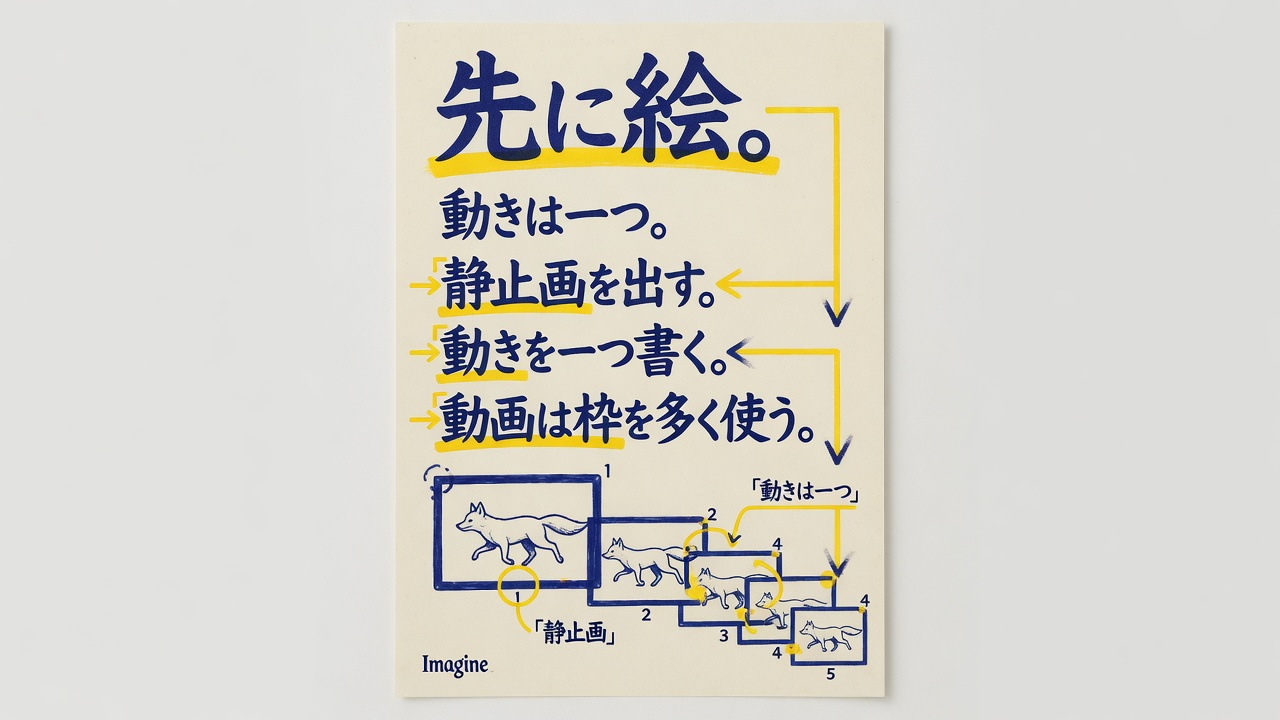
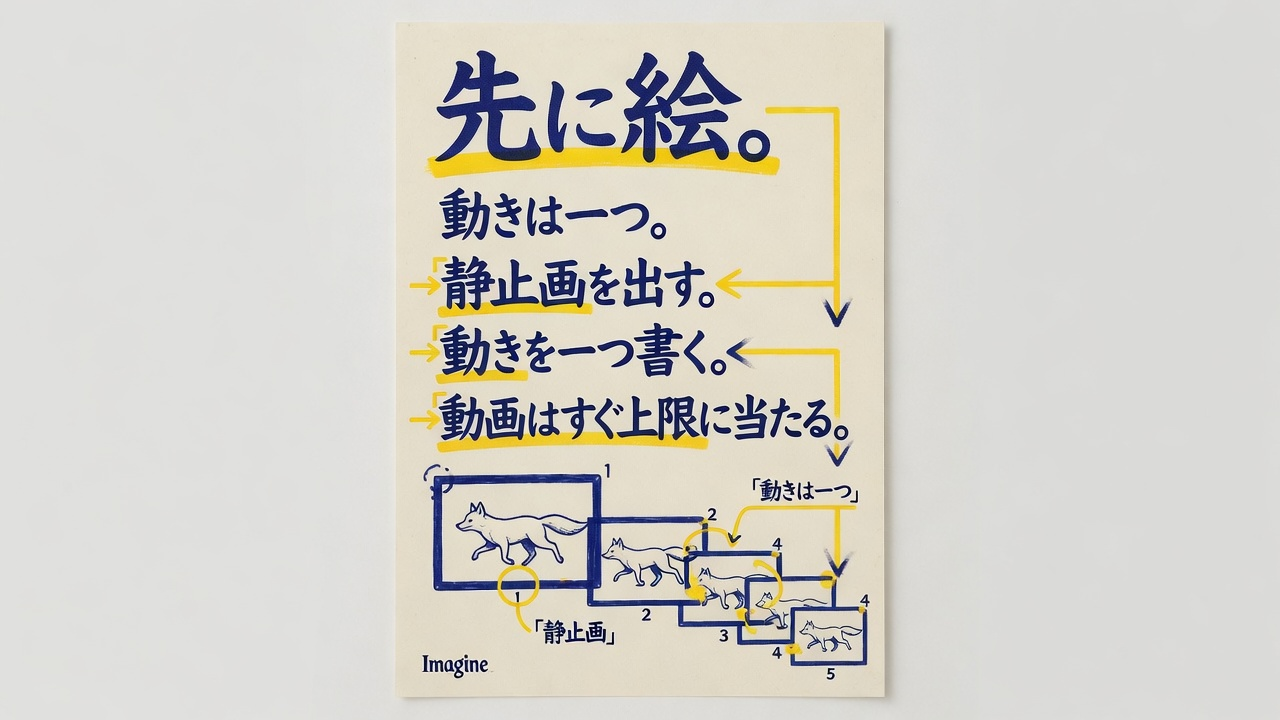
Write TIPS as spoken Japanese first, then add facts
Stop swapping one jargon word for another. Rewrite the section
from a LINE 3-liner. Usage pool is 1週間で上限は1つ.

Changed region(s): [[0.3438, 0.55, 0.6875, 0.6417], [0.5938, 0.6722, 0.625, 0.7028], [0.3438, 0.9167, 0.375, 0.9472]]

diff --git a/src/content/tips/imagine-quickstart.md b/src/content/tips/imagine-quickstart.md
@@ -1,6 +1,6 @@
 ---
 title: Imagine で画像を出す最短手順
-description: Grok Imagine で 1 枚目を出すまでの 4 手順と、日本語プロンプトの書き方の型。無料枠の上限は公式で確認。
+description: Grok Imagine で 1 枚目を出すまでの 4 手順と、日本語の文の型。無料で何枚出るかは公式で確認。
 order: 4
 product: imagine
 last_verified: "2026-09-08"
@@ -23,7 +23,7 @@ image_caption: このページの型（白い猫 / 雨の京都の路地 / film 
 1. Imagine を開く（grok.com の左、公式アプリの下タブ。X からは出ないことが多い）
 2. 被写体 + 場面 + 画風で 1 文
 3. 同じ文で 2〜3 回出して選ぶ
-4. 決まってから動画にする（<a href="/tips/imagine-video/">動きは一つ。動画は枠を多く使う</a>）
+4. 決まってから動画にする（<a href="/tips/imagine-video/">動きは一つ。動画はすぐ上限に当たる</a>）
 
 見当たらなければ別の入口を試します（<a href="/tips/three-entrances/">入口は grok.com / 公式アプリ / X</a>）。会話で使い方を聞くなら、冒頭で日本語と範囲を固定します（<a href="/tips/japanese-fix/">会話の冒頭で日本語に固定する</a>）。
 
@@ -44,16 +44,16 @@ image_caption: このページの型（白い猫 / 雨の京都の路地 / film 
 
 数字や料金、画面のラベルが正確である必要がある図は、Imagine より HTML の表の方が向きます。顔と日本語の文字は苦手なことがあるので、回数を多めに見ます。
 
-## 無料枠の上限
+## 無料の上限
 
-無料で生成できる枚数や本数には上限があります。2026 年 6 月以降、grok.com とアプリの上限は「1 日の回数」ではなく、**1 週間ぶんの利用枠を Chat・Imagine・Voice・Build で共有する**方式です。画像をたくさん出すと、その週のチャットも減ります。内訳は設定の Usage で見ます。仕組みは <a href="/tips/free-vs-supergrok/">払う場所</a> に書いています。
+無料で生成できる枚数や本数には上限があります。2026 年 6 月以降、チャットも Imagine も、上限は 1 週間で 1 つです。画像をたくさん出すと、その週のチャットも減ります。内訳は設定の Usage で見ます。仕組みは <a href="/tips/free-vs-supergrok/">払う場所</a> に書いています。
 
 上限の数字は時期や混雑で変わり、日本語の公式ページにはまとまっていません。上限に当たったときの表示を信じて、数字はこのページに書きません。最新の条件は <a href="https://grok.com">grok.com</a> と <a href="https://x.ai/news">x.ai/news</a> で確認してください。上限に当たる頻度が高いなら、SuperGrok を検討します。
 
 ## 気をつけること
 
 - **透かしは消せません。** FAQ によると、生成した画像と動画には Grok の透かしが入り、設定では外せません。消す・隠すことは利用規約で禁止されています。
-- **720p の動画は、その解像度の上限に当たると 480p に落ちます。** 「画質設定を変えたのに 480p」は故障ではなく、枠の消費です。Usage を見ます。
+- **720p の動画は、その解像度の上限に当たると 480p に落ちます。** 「画質設定を変えたのに 480p」は故障ではない。Usage を見ます。
 - **実在の人物、未成年、性的な内容には制限があります。** 制限の内容はポリシーで決まり、変わります。生成できないときは、プロンプトではなくポリシー側の理由であることが多いです。
 - **生成した画像の権利と利用範囲は公式の規約に従います。** 商用で使う前に規約を読みます。
 - **顔と文字は苦手なことがあります。** 人物の顔や日本語の文字を入れたい場合は、回数を多めに見込みます。数字や料金が正確である必要がある図は、Imagine より表の方が向きます。

diff --git a/.grok/skills/grok-jp-tips/SKILL.md b/.grok/skills/grok-jp-tips/SKILL.md
@@ -15,15 +15,15 @@ Rules live in `.grok/rules/writing.md`. Follow that file; do not copy it here.
 | Metaphor still that needs “ノートがチャット” | Don't ship it |
 | “Heavy は金額が無いから公式ではない” | Heavy exists on x.ai/pricing comparison + Get Heavy. Amount ≠ existence |
 | Dump “わかりにくいので画面で確認” as the article | Write やりたいこと → 払う場所 first |
-| Copy that fails 音読 (headers, table labels, captions, alt, figure text) | Rewrite the meaning. Do not add a row to a word list |
+| English FAQ copied into Japanese word order | Rewrite the whole paragraph from a 3-line LINE message. Do not swap one noun |
 | Invented 無制限, 2024, Lite $10 as current card | Only dated primary-source numbers |
 | Cut a figure and leave the page thinner | Move the figure’s facts into the body in the same commit |
 | Markdown table without `.table-scroll` | Wrap it in `<div class="table-scroll">`. On a narrow screen, rows stack as cards. Do not squeeze columns or rely on horizontal scroll |
 
 ## Do
 
-1. Thicken the existing five TIPS. No new pages unless asked.
+1. Thicken existing TIPS. No new pages unless asked.
 2. Infographic: Imagine, natural Japanese in the picture, inspect the file, copy to `public/tips/fig-{name}.jpg`. One figure per TIPS, except billing (choose + stairs) and Imagine proof stills/videos.
 3. Billing: grok.com / X / Cursor / API stay separate. Heavy is a real plan. Amounts shown on 2026-09-08: Free $0, SuperGrok $30, Plus $100.
-4. Before ship: read title, headings, table headers, captions, alt aloud. If it sounds like a translation or names a UI widget, rewrite.
-5. After figures or copy change, ship with **grok-jp-ship**.
+4. Write the LINE 3-liner first. Then add dates and numbers. If a sentence is English in Japanese clothes, rewrite the section — never search-replace one word.
+5. Before ship: read the whole article aloud, not the diff. Then **grok-jp-ship**.

diff --git a/src/content/tips/bot-build-chat-map.md b/src/content/tips/bot-build-chat-map.md
@@ -56,7 +56,7 @@ FAQ は、Grok Bot を grok.com のチャットや公式アプリとは別物だ
 禁止: ○○（例: 文体を変えない。英語で答えない）
 ```
 
-対象プランは公式内で食い違っています。2026-08-26 のニュースは SuperGrok と Cursor Pro を含む一方、取得時点の導入ページは SuperGrok Plus / Heavy と Cursor Pro+ 以上だけです。Cursor の個人向け Pro は、料金表に月 $20 と Grok Bot access とあります。**画面で確認してください。** Bot の利用量は Grok や Cursor の枠とは別に数えます。grok.com の週間枠（Chat / Imagine / Voice）は付きません（<a href="/tips/free-vs-supergrok/">払う場所</a>）。
+対象プランは公式内で食い違っています。2026-08-26 のニュースは SuperGrok と Cursor Pro を含む一方、取得時点の導入ページは SuperGrok Plus / Heavy と Cursor Pro+ 以上だけです。Cursor の個人向け Pro は、料金表に月 $20 と Grok Bot access とあります。**画面で確認してください。** Bot の利用量は Grok や Cursor の上限とは別に数えます。grok.com のチャットや Imagine の上限は付きません（<a href="/tips/free-vs-supergrok/">払う場所</a>）。
 
 Bot 用のプロンプトは、<a href="https://grokguide.jp" rel="external">grokguide.jp</a> に多数まとまっています。このサイトでは Bot のプロンプト集は作りません。作り方の型と、日本語で使うときの注意だけを書きます。
 

diff --git a/.grok/rules/writing.md b/.grok/rules/writing.md
@@ -19,11 +19,13 @@
 
 ## 日本語
 
-読者は料金ページのデザイナーではない。カード、トップ、段、ハブ、地図は、画面の部品か英語の比喩を漢字に写しただけだ。知りたいのはいくら、何ができる、どこで払う。
+英語の公式文を、日本語の語順に載せない。
 
-禁止語の表を育てて運用するな。次に来る直訳は表に無い。テストは **音読** だけ。title、description、見出し、表の見出し、キャプション、alt、図の中の文字。友達に LINE で送って「なにそれ」となる文は出すな。
+1. 先に、友達へ LINE する 3 行を書く。画面の部品名も、英語の比喩を漢字にしたものも使わない。
+2. 日付と数字と製品名だけ足す。
+3. 直訳だと気づいたら、その語を別の語に換えない。**その段落を 1 から書き直す。** 禁止語の表を足すな。次の直訳は表に無い。
 
-表の見出しはスマホで毎行のラベルになる。本文より目立つ。見出しを雑に書いて、あとから単語を差し替えるな。
+テストは音読。title、description、見出し、表の見出し、キャプション、alt、図の中の文字。LINE で「なにそれ」なら出すな。表の見出しはスマホでラベルになる。
 
 製品名は英語のまま（Grok, SuperGrok, Imagine, Bot, Build, Voice）。節名「TIPS」は変えない。
 

diff --git a/README.md b/README.md
@@ -22,7 +22,7 @@ Every page carries an unofficial banner. Official Grok / xAI logos are not used.
 - Hosting: Cloudflare Workers Static Assets / 配信は Cloudflare Workers Static Assets
 - Package manager: **pnpm** / パッケージマネージャは **pnpm**
 - Worker handles `/api/*` only (likes and comments). `run_worker_first` stays **false** — turning it on would send every request through the Worker and burn the free quota.
-- Worker は `/api/*` だけ（いいねとコメント）。`run_worker_first` は **false のまま**。true にすると全リクエストが Worker を通り、無料枠を食います。
+- Worker は `/api/*` だけ（いいねとコメント）。`run_worker_first` は **false のまま**。true にすると全リクエストが Worker を通り、無料の分を食います。
 - Comments and reactions: D1 `grok-fun-community` + Turnstile. Articles stay static if D1 is gone.
 - コメントとリアクションは D1 `grok-fun-community` と Turnstile。D1 が落ちても記事は残ります。
 - Analytics: Google Tag Manager `GTM-NQMPJ2FS` (GA4). Do not add a second gtag.js.

diff --git a/src/content/tips/three-entrances.md b/src/content/tips/three-entrances.md
@@ -53,7 +53,7 @@ X の中の Grok は、公開投稿や会話が学習に使われる設定があ
 
 ## 課金も入口ごとに別
 
-**X Premium に入っても、grok.com の SuperGrok は付いてきません。** 契約する場所が違います。Cursor のプランに入っていると Grok Bot が使えることもありますが、それも grok.com の週間枠とは別です。どこで払うかは <a href="/tips/free-vs-supergrok/">払う場所</a> に書いています。
+**X Premium に入っても、grok.com の SuperGrok は付いてきません。** 契約する場所が違います。Cursor のプランに入っていると Grok Bot が使えることもありますが、それも grok.com の上限とは別です。どこで払うかは <a href="/tips/free-vs-supergrok/">払う場所</a> に書いています。
 
 ## 公式アプリの見分け方
 

diff --git a/AGENTS.md b/AGENTS.md
@@ -6,7 +6,7 @@
 
 ## 公開する日本語（最優先）
 
-正本は **`.grok/rules/writing.md`**。読者向けの日本語は、画面の部品名や英語の比喩を漢字に写さない。テストは禁止語の表ではなく **音読**。title、見出し、表の見出し、キャプション、alt も含む。表の見出しはスマホでラベルになる。
+正本は **`.grok/rules/writing.md`**。先に口語 3 行、事実は日付と数字。英語の公式を日本語に載せない。直訳は語を換えず、段落を書き直す。音読。表の見出しはスマホでラベルになる。
 
 製品名は英語のまま残す（Grok, SuperGrok, Imagine, Bot, Build, Voice）。節の名前「TIPS」は既に公開済みなので変えない。
 

diff --git a/.grok/skills/grok-jp-ship/SKILL.md b/.grok/skills/grok-jp-ship/SKILL.md
@@ -24,7 +24,7 @@ Follow **chrome-isolated-shots**: unique `--user-data-dir` under `/tmp`, wait un
 
 Look for: judgment written inside the figure, titles wrapping, Imagine proof photo only, no metaphor stills, no overflow, no squeezed table columns.
 
-On 390px, table rows are cards. Read every visible label aloud. If a label names a UI widget or sounds translated, do not ship — rewrite in `.grok/rules/writing.md` terms (いくら、何ができる、どこで払う) and rebuild.
+On 390px, table rows are cards. Read the whole article, not the diff. If a sentence is English in Japanese clothes, rewrite that section from a LINE 3-liner. Do not search-replace one word. Then rebuild.
 
 ## Do not
 
